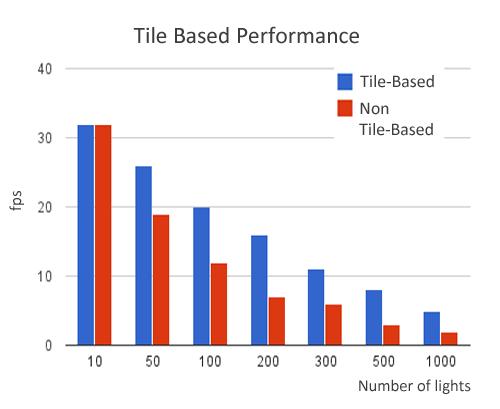
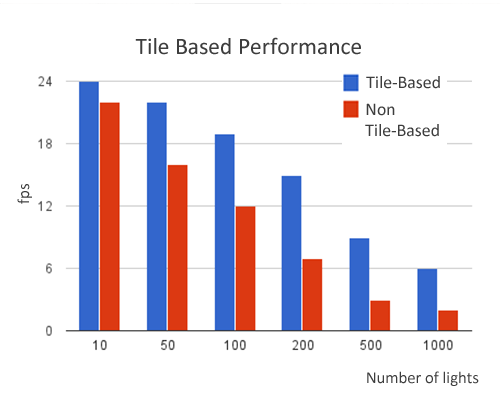
Updated using texture and all performance test

diff --git a/MozillaHacks/DeferredShading/index.html b/MozillaHacks/DeferredShading/index.html
@@ -139,7 +139,7 @@ Even though we initialized the extension in JavaScript with <span class="code">g
 
 <h2>g-buffers</h2>
 <p>
-In our deferred shading implementation using WEBGL_draw_buffers, the g-buffer is composed of four textures: eye-space position, eye-space normal, diffuse color, and depth.  Position, normal, and diffuse use the floating-point RGBA format via the <a href="http://www.khronos.org/registry/webgl/extensions/OES_texture_float/" target="_blank">OES_texture_float extension</a>, and depth uses the unsigned-short <span class="code">DEPTH_COMPONENT</span> format.
+In our deferred shading implementation using WEBGL_draw_buffers, the g-buffer is composed of four textures: eye-space position, eye-space normal, color, and depth.  Position, normal, and color use the floating-point RGBA format via the <a href="http://www.khronos.org/registry/webgl/extensions/OES_texture_float/" target="_blank">OES_texture_float extension</a>, and depth uses the unsigned-short <span class="code">DEPTH_COMPONENT</span> format.
 </p>
 <p>
 <p>
@@ -151,8 +151,8 @@ Normal texture
 <img src="normal.png"/>
 </p>
 <p>
-Diffuse texture
-<img src="color+ambient.png"/>
+Color texture
+<img src="color.png"/>
 </p>
 Depth texture
 <img src="depth.png"/>
@@ -174,7 +174,7 @@ Using WEBGL_draw_buffers, we can use a single pass to write each texture in the 
 <img src="drawbufferextesnionwithlights.png"/>
 </p>
 <p>
-All performance numbers were measured using an NVIDIA GT 620M in FireFox 25.0.1 on Window 8.  In the above graph, each Stanford Dragon is 100,000 triangles and requires five draw calls so, for example, when 50 dragons are rendered, 250 draw calls (and related state changes) are issued, and a total of 25,000,000 triangles are transformed.
+All performance numbers were measured using an NVIDIA GT 620M in FireFox 25.0.1 on Window 8.  In the above graph, each Stanford Dragon is 100,000 triangles and requires five draw calls so, for example, when 50 dragons are rendered, 250 draw calls (and related state changes) are issued, and a total of 5,000,000 triangles are transformed.
 </p>
 <p>
 <img src="DeferredShadingPic7.png"/>
@@ -188,13 +188,13 @@ Deferred shading requires a lot of GPU memory bandwidth, which can hurt performa
 </p>
 <h2>Tile-Based Deferred Shading</h2>
 <p>
-Tile-based deferred shading takes this a step farther and splits the screen into tiles, for example 16x16 pixels, and then determines which lights influence each tile.  Light-tile information is then passed to the shader and the g-buffer is only read once for all lights. Since this drastically reduces memory bandwidth, it improves performance.  The following graph shows performance for the sibenik scene (75,284 triangles and four draw calls) with 200 lights at 1024x768 with 32x32 tiles.
+Tile-based deferred shading takes this a step farther and splits the screen into tiles, for example 16x16 pixels, and then determines which lights influence each tile.  Light-tile information is then passed to the shader and the g-buffer is only read once for all lights. Since this drastically reduces memory bandwidth, it improves performance.  The following graph shows performance for the sponza scene (66,450 triangles and 38 draw calls) at 1024x768 with 32x32 tiles.
 <p>
 <p>
 <img src="DeferredShadingPic5.png"/>
 </p>
 <p>
-Tile size affects performance.  Smaller tiles require more JavaScript overhead to create light-tile information, but less computation in the lighting shader.  Larger tiles have the opposite tradeoff.  Therefore, choosing a suitable tile is important for the performance. The figure below is shown the relationship between tile size and performance.
+Tile size affects performance.  Smaller tiles require more JavaScript overhead to create light-tile information, but less computation in the lighting shader.  Larger tiles have the opposite tradeoff.  Therefore, choosing a suitable tile is important for the performance. The figure below is shown the relationship between tile size and performance with 100 lights.
 </p>
 <p>
 <img src="DeferredShadingPic8.png"/>
